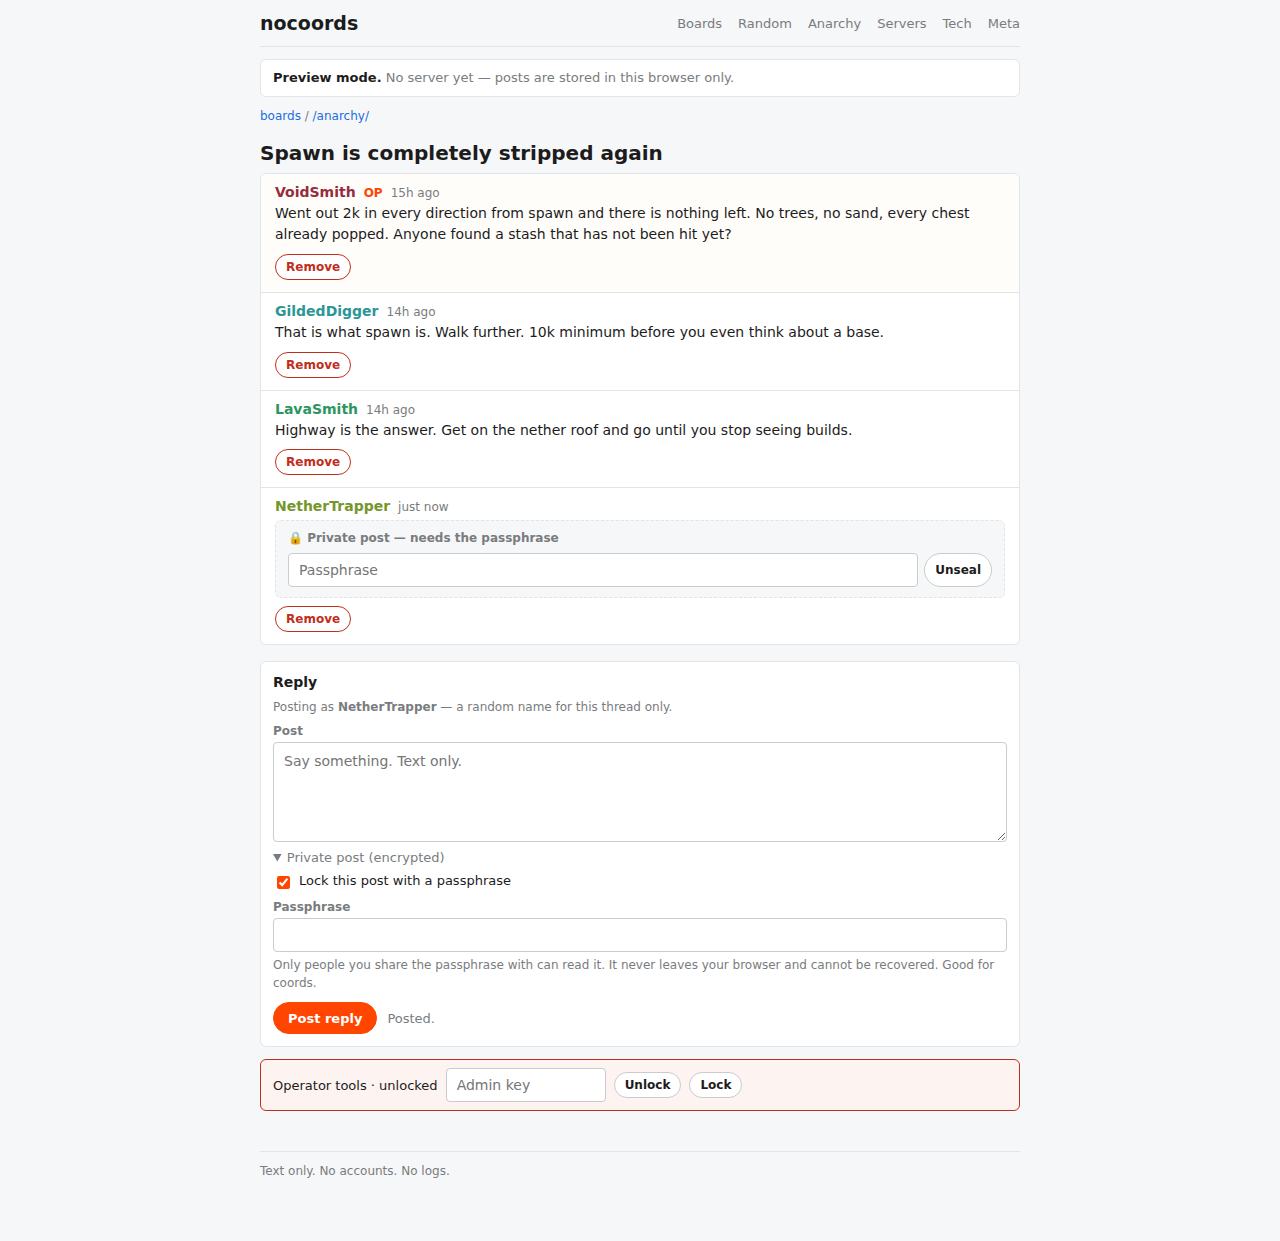
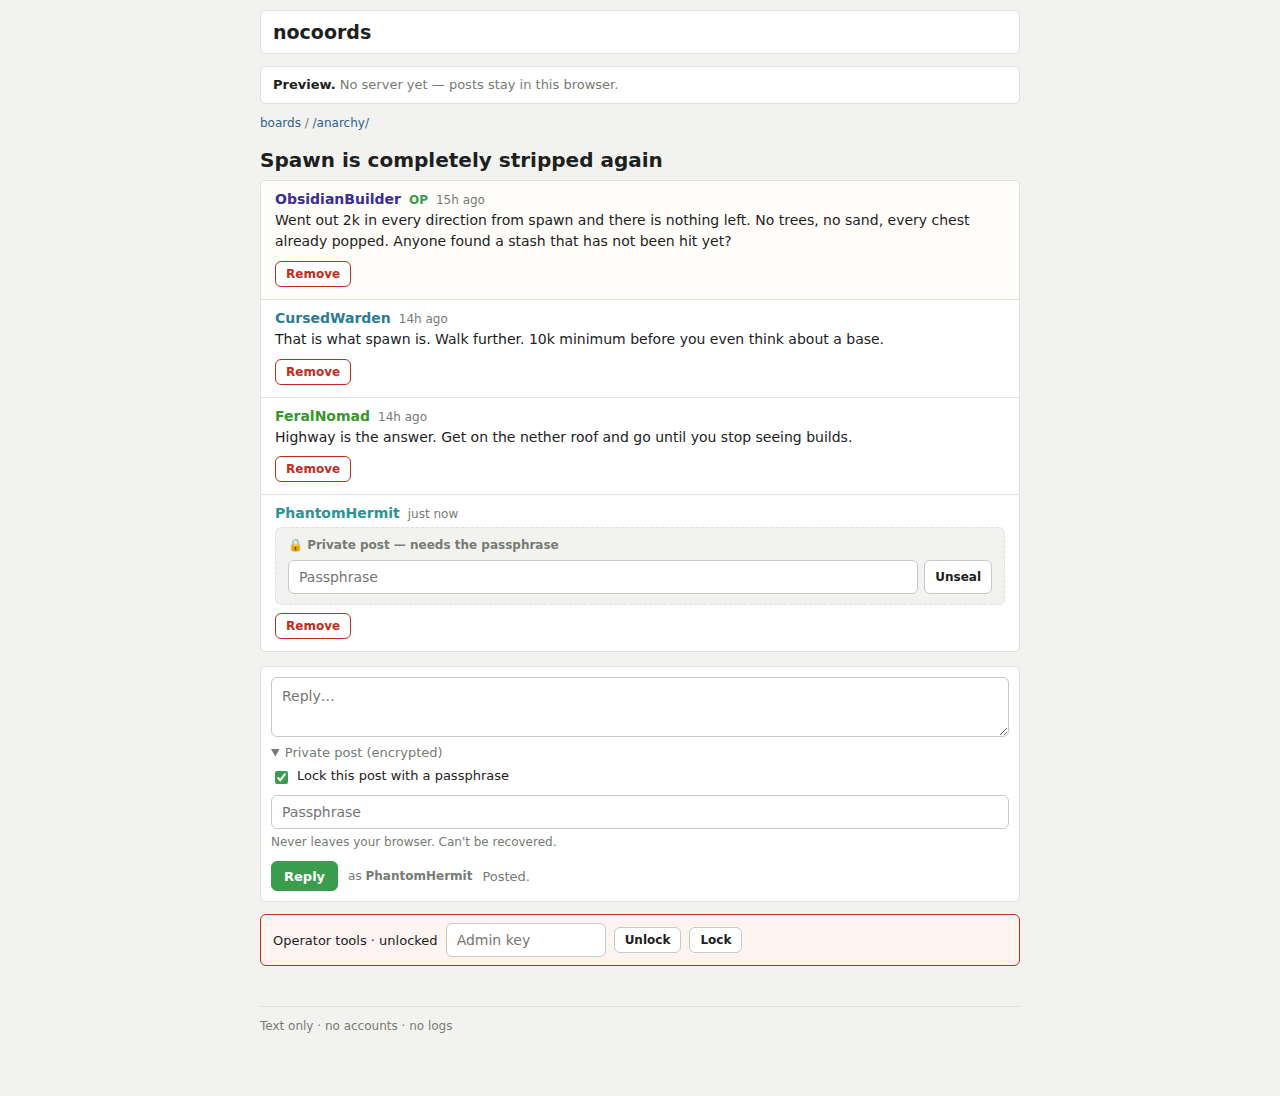
Address dev design feedback
- Replace the Reddit-reading palette (orangered/gray) with a green
  accent on a neutral page
- Put the header in a white box like the rest of the content instead of
  floating on the page background
- Unify corner radius at 6px across boxes, buttons, and inputs (pill
  buttons removed)
- Cut copy throughout: shorter notices, no field labels (placeholders +
  visually-hidden labels), one-line footer, one-line passphrase hint
- Remove the top nav links entirely; the wordmark and breadcrumbs handle
  navigation
- Shrink the reply composer: no heading, 60px textarea, "as <handle>"
  inline next to the Reply button

Claude-Session: https://claude.ai/code/session_01BMXtbgatWDFbBsJchyQoL7

diff --git a/forum/thread.html b/forum/thread.html
@@ -13,16 +13,12 @@
 <body data-page="thread">
   <div class="shell">
     <header class="masthead">
-      <div class="banner">
-        <a class="wordmark" href="./index.html">nocoords</a>
-        <span class="tagline">the minecraft anarchy board</span>
-      </div>
-      <nav class="masthead-nav" aria-label="Boards"><a href="./index.html">Boards</a><a href="./board.html?b=b">Random</a><a href="./board.html?b=anarchy">Anarchy</a><a href="./board.html?b=servers">Servers</a><a href="./board.html?b=tech">Tech</a><a href="./board.html?b=meta">Meta</a></nav>
+      <a class="wordmark" href="./index.html">nocoords</a>
     </header>
 
     <main>
       <p class="notice" id="mock-notice" hidden>
-        <strong>Preview mode.</strong> No server yet — posts are stored in this browser only.
+        <strong>Preview.</strong> No server yet — posts stay in this browser.
       </p>
 
       <p class="crumbs"><a href="./index.html">boards</a> / <span id="thread-board"></span></p>
@@ -38,15 +34,9 @@
 
       <section id="reply-section">
         <form class="composer" id="reply-form" autocomplete="off">
-          <h2>Reply</h2>
-          <p class="field-hint">
-            Posting as <strong id="your-name">…</strong><span id="your-id" hidden></span> —
-            a random name for this thread only.
-          </p>
-
           <div class="field">
-            <label for="body">Post</label>
-            <textarea id="body" name="body" maxlength="8000" placeholder="Say something. Text only."></textarea>
+            <label class="visually-hidden" for="body">Reply</label>
+            <textarea id="body" name="body" maxlength="8000" placeholder="Reply…"></textarea>
           </div>
 
           <details class="advanced">
@@ -57,18 +47,16 @@
                 <label for="sealed">Lock this post with a passphrase</label>
               </div>
               <div class="field" id="pass-field" hidden>
-                <label for="passphrase">Passphrase</label>
-                <input type="password" id="passphrase" name="passphrase" autocomplete="new-password">
-                <p class="field-hint">
-                  Only people you share the passphrase with can read it. It never leaves your
-                  browser and cannot be recovered. Good for coords.
-                </p>
+                <label class="visually-hidden" for="passphrase">Passphrase</label>
+                <input type="password" id="passphrase" name="passphrase" autocomplete="new-password" placeholder="Passphrase">
+                <p class="field-hint">Never leaves your browser. Can't be recovered.</p>
               </div>
             </div>
           </details>
 
           <div class="composer-actions">
-            <button class="button button-primary" type="submit">Post reply</button>
+            <button class="button button-primary" type="submit">Reply</button>
+            <span class="field-hint">as <strong id="your-name">…</strong><span id="your-id" hidden></span></span>
             <span class="status"></span>
           </div>
         </form>
@@ -84,7 +72,7 @@
     </main>
 
     <footer class="site-foot">
-      <p>Text only. No accounts. No logs.</p>
+      <p>Text only · no accounts · no logs</p>
     </footer>
   </div>
 

diff --git a/forum/board.html b/forum/board.html
@@ -13,16 +13,12 @@
 <body data-page="board">
   <div class="shell">
     <header class="masthead">
-      <div class="banner">
-        <a class="wordmark" href="./index.html">nocoords</a>
-        <span class="tagline">the minecraft anarchy board</span>
-      </div>
-      <nav class="masthead-nav" aria-label="Boards"><a href="./index.html">Boards</a><a href="./board.html?b=b">Random</a><a href="./board.html?b=anarchy">Anarchy</a><a href="./board.html?b=servers">Servers</a><a href="./board.html?b=tech">Tech</a><a href="./board.html?b=meta">Meta</a></nav>
+      <a class="wordmark" href="./index.html">nocoords</a>
     </header>
 
     <main>
       <p class="notice" id="mock-notice" hidden>
-        <strong>Preview mode.</strong> No server yet — posts are stored in this browser only.
+        <strong>Preview.</strong> No server yet — posts stay in this browser.
       </p>
 
       <p class="crumbs"><a href="./index.html">boards</a> /</p>
@@ -34,16 +30,14 @@
       </div>
 
       <form class="composer" id="new-thread-form" autocomplete="off">
-        <h2>Start a thread</h2>
-
         <div class="field">
-          <label for="subject">Subject</label>
-          <input type="text" id="subject" name="subject" maxlength="120" placeholder="What is this about">
+          <label class="visually-hidden" for="subject">Subject</label>
+          <input type="text" id="subject" name="subject" maxlength="120" placeholder="Subject">
         </div>
 
         <div class="field">
-          <label for="body">Post</label>
-          <textarea id="body" name="body" maxlength="8000" placeholder="Say something. Text only."></textarea>
+          <label class="visually-hidden" for="body">Post</label>
+          <textarea id="body" name="body" maxlength="8000" placeholder="Start a thread…"></textarea>
         </div>
 
         <details class="advanced">
@@ -54,12 +48,9 @@
               <label for="sealed">Lock this post with a passphrase</label>
             </div>
             <div class="field" id="pass-field" hidden>
-              <label for="passphrase">Passphrase</label>
-              <input type="password" id="passphrase" name="passphrase" autocomplete="new-password">
-              <p class="field-hint">
-                Only people you share the passphrase with can read it. It never leaves your
-                browser and cannot be recovered. Good for coords.
-              </p>
+              <label class="visually-hidden" for="passphrase">Passphrase</label>
+              <input type="password" id="passphrase" name="passphrase" autocomplete="new-password" placeholder="Passphrase">
+              <p class="field-hint">Never leaves your browser. Can't be recovered.</p>
             </div>
           </div>
         </details>
@@ -85,7 +76,7 @@
     </main>
 
     <footer class="site-foot">
-      <p>Text only. No accounts. No logs.</p>
+      <p>Text only · no accounts · no logs</p>
     </footer>
   </div>
 

diff --git a/forum/index.html b/forum/index.html
@@ -14,18 +14,12 @@
 <body data-page="index">
   <div class="shell">
     <header class="masthead">
-      <div class="banner">
-        <a class="wordmark" href="./index.html">nocoords</a>
-        <span class="tagline">the minecraft anarchy board</span>
-      </div>
-      <nav class="masthead-nav" aria-label="Boards"><a href="./index.html">Boards</a><a href="./board.html?b=b">Random</a><a href="./board.html?b=anarchy">Anarchy</a><a href="./board.html?b=servers">Servers</a><a href="./board.html?b=tech">Tech</a><a href="./board.html?b=meta">Meta</a></nav>
+      <a class="wordmark" href="./index.html">nocoords</a>
     </header>
 
     <main>
       <p class="notice" id="mock-notice" hidden>
-        <strong>Preview mode.</strong> There is no server yet. Everything you post is stored in
-        this browser only and is not visible to anyone else. Swap the backend in
-        <code>api.js</code> to make it real.
+        <strong>Preview.</strong> No server yet — posts stay in this browser.
       </p>
 
       <div class="page-head">
@@ -45,13 +39,6 @@
       </div>
       <div class="thread-list" id="recent-threads"></div>
 
-      <div class="notice notice-spaced">
-        <p>
-          No accounts, no cookies, no trackers. Posts can be locked with a passphrase so only
-          your friends can read them — handy for coords.
-        </p>
-      </div>
-
       <div class="admin-bar" id="admin-bar">
         <span>Operator tools · <span id="admin-state">locked</span></span>
         <label class="visually-hidden" for="admin-key">Admin key</label>
@@ -62,8 +49,7 @@
     </main>
 
     <footer class="site-foot">
-      <p>NoCoords is a text-only board. There are no image or file uploads, by design.</p>
-      <p>Posts are not moderated for opinion. Illegal content is removed on sight.</p>
+      <p>Text only · no accounts · no logs · posts can be locked with a passphrase</p>
     </footer>
   </div>
 

diff --git a/forum/forum.css b/forum/forum.css
@@ -9,13 +9,13 @@
  */
 
 :root {
-  --page: #f6f7f8;
+  --page: #f2f3f0;
   --white: #ffffff;
-  --line: #e3e4e6;
-  --text: #1c1c1c;
-  --muted: #797c7e;
-  --link: #1a6ee0;
-  --accent: #ff4500;
+  --line: #e0e2dd;
+  --text: #1d211e;
+  --muted: #767b74;
+  --link: #33608a;
+  --accent: #3a9d4e;
   --greentext: #5f9427;
   --danger: #c22e1c;
   --sans: ui-sans-serif, system-ui, -apple-system, "Segoe UI", Roboto, Helvetica, Arial, sans-serif;
@@ -70,8 +70,11 @@ p {
   justify-content: space-between;
   gap: 12px;
   flex-wrap: wrap;
-  padding: 12px 0;
-  border-bottom: 1px solid var(--line);
+  margin-top: 10px;
+  padding: 10px 12px;
+  border: 1px solid var(--line);
+  border-radius: 6px;
+  background: var(--white);
 }
 
 .wordmark {
@@ -382,8 +385,8 @@ p {
 .composer {
   display: grid;
   gap: 8px;
-  margin-top: 16px;
-  padding: 12px;
+  margin-top: 14px;
+  padding: 10px;
   border: 1px solid var(--line);
   border-radius: 6px;
   background: var(--white);
@@ -411,8 +414,8 @@ textarea,
 select {
   width: 100%;
   padding: 8px 10px;
-  border: 1px solid #c9cbcd;
-  border-radius: 4px;
+  border: 1px solid #c6c9c4;
+  border-radius: 6px;
   background: var(--white);
   color: var(--text);
   font-family: var(--sans);
@@ -420,7 +423,7 @@ select {
 }
 
 textarea {
-  min-height: 100px;
+  min-height: 60px;
   line-height: 1.5;
   resize: vertical;
 }
@@ -484,10 +487,10 @@ select:focus-visible {
   display: inline-flex;
   align-items: center;
   justify-content: center;
-  min-height: 32px;
-  padding: 0 14px;
-  border: 1px solid #c9cbcd;
-  border-radius: 999px;
+  min-height: 30px;
+  padding: 0 12px;
+  border: 1px solid #c6c9c4;
+  border-radius: 6px;
   background: var(--white);
   color: var(--text);
   font: inherit;
@@ -517,7 +520,7 @@ select:focus-visible {
 }
 
 .button-primary:hover:not(:disabled) {
-  background: #e63e00;
+  background: #338a44;
 }
 
 .button-small {
